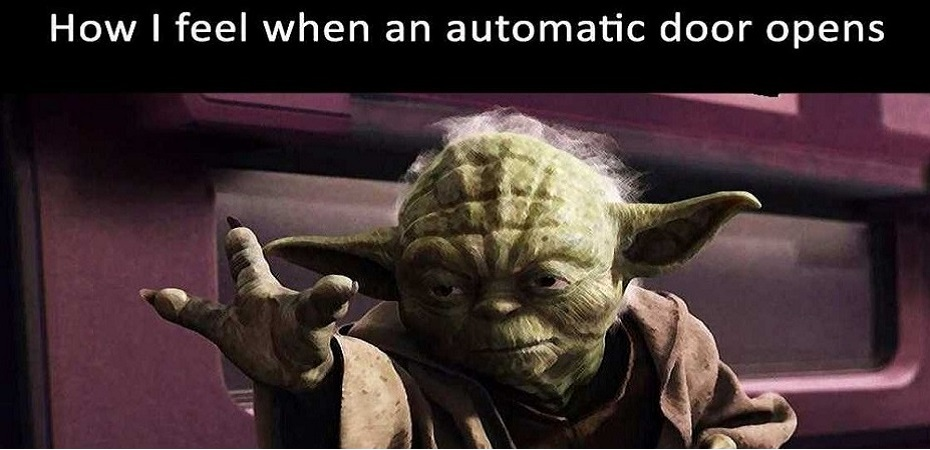
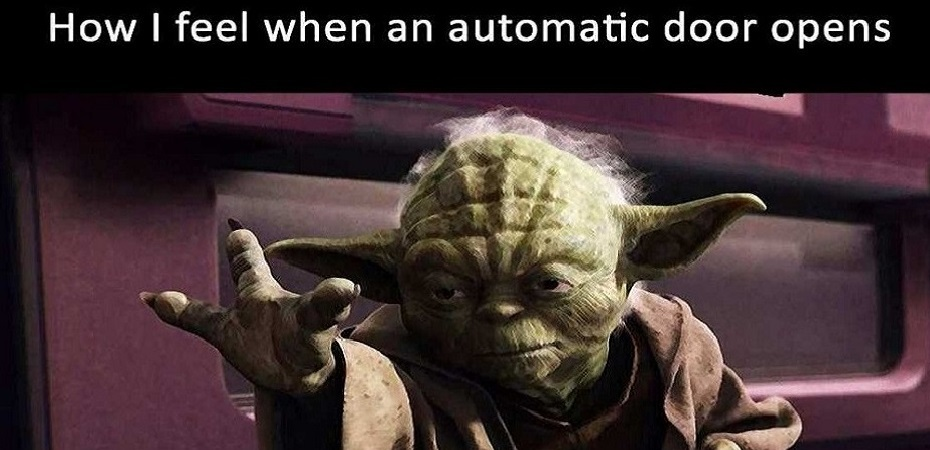
feat: controls push and hover (Fri, Sep 13, 2024 12:48:47 PM)

diff --git a/cssMemeSlider/styles/style.css b/cssMemeSlider/styles/style.css
@@ -3,14 +3,8 @@
     padding: 0;
     box-sizing: border-box;
 }
-main {
-    background-color: rgb(0, 0, 0);
-    display: flex;
-    flex-direction: column;
-    align-items: center;  
-}
 .container {
-    background-color: chocolate;
+    background-color: black;
     display: flex;
     flex-direction: column;
     align-items: center;
@@ -25,7 +19,6 @@ main {
     display: flex;
     flex-direction: column;
     align-items: center;
-    background-color: rosybrown;
     padding: 20px;
 }
 .slider-vripper {
@@ -53,14 +46,12 @@ main {
     margin: 0 auto;
 }
 .texts-inputs {
-    background-color: bisque;
     width: 95%;
     display: flex;
     flex-direction: row;
  
 }
 .texts-vraper {
-   background-color: chartreuse;
    overflow: hidden;
    
    
@@ -71,11 +62,10 @@ main {
     justify-content: start;
     width: 400%;
     transition: 1s;
-    
 }
 .h3-text {
     width: 100%;
-    color: aliceblue;
+    color: lime;
     font-family: Helvetica;
     letter-spacing: 0.06rem;
 }
@@ -86,7 +76,8 @@ main {
     align-items: start;
 }
 .label-input {
-    padding: 5px; 
+    padding: 0.2em; 
+    cursor: pointer;
 }
 .input-slide {
     display: none;
@@ -95,14 +86,51 @@ span {
     display: inline-block;
     width: 1em;
     height: 1em;
-    border: 3px solid rgb(255, 0, 191);
+    border: 3px solid lime;
     border-radius: 50%;
-    cursor: pointer;
-    background-color: rgb(255, 0, 191);
-    transition: outline 0.1s;
+    background-color: lime;
+    transition: 0.5s;
 }
 .label-input:hover span{
-    outline: 0.2rem solid rgba(255, 0, 191, 0.7);
+    background-color: white;
+    border: 3px solid white;
 }
 
+
+#input-slide1:checked ~ .slider-texts-inputs .texts-inputs .inputs-label .label-input1 span{
+    background-color:black
+}
+#input-slide2:checked ~ .slider-texts-inputs .texts-inputs .inputs-label .label-input2 span{
+    background-color:black
+}
+#input-slide3:checked ~ .slider-texts-inputs .texts-inputs .inputs-label .label-input3 span{
+    background-color:black
+}
+#input-slide4:checked ~ .slider-texts-inputs .texts-inputs .inputs-label .label-input4 span{
+    background-color:black
+}
+#input-slide1:checked ~ .slider-texts-inputs .slides {
+    transform: translateX(0%);
+}
+#input-slide2:checked ~ .slider-texts-inputs .slides {
+    transform: translateX(-25%);
+}
+#input-slide3:checked ~ .slider-texts-inputs .slides {
+    transform: translateX(-50%);
+}
+#input-slide4:checked ~ .slider-texts-inputs .slides {
+    transform: translateX(-75%);
+}
+#input-slide1:checked ~ .slider-texts-inputs .texts {
+    transform: translateX(0%);
+}
+#input-slide2:checked ~ .slider-texts-inputs .texts {
+    transform: translateX(-25%);
+}
+#input-slide3:checked ~ .slider-texts-inputs .texts {
+    transform: translateX(-50%);
+}
+#input-slide4:checked ~ .slider-texts-inputs .texts {
+    transform: translateX(-75%);
+}
 

diff --git a/cssMemeSlider/index.html b/cssMemeSlider/index.html
@@ -33,10 +33,10 @@
                 <div class="texts-inputs">
                     <div class="texts-vraper">
 						<div class="texts">
-							<div class="h3-text">Best star wars memes wait for you here.</div>
-							<div class="h3-text">There are always two. A master and an apprentice.</div>
-							<div class="h3-text">Keep scrolling... We need to go up.</div>
-							<div class="h3-text">How you feel when an automatic door opens.</div>
+							<div class="h3-text">&nbsp;Best star wars memes wait for you here.</div>
+							<div class="h3-text">&nbsp;There are always two. A master and an apprentice.</div>
+							<div class="h3-text">&nbsp;Keep scrolling... We need to go up.</div>
+							<div class="h3-text">&nbsp;How you feel when an automatic door opens.</div>
 						</div>	   
 					</div>
                     <div class="inputs-label">
